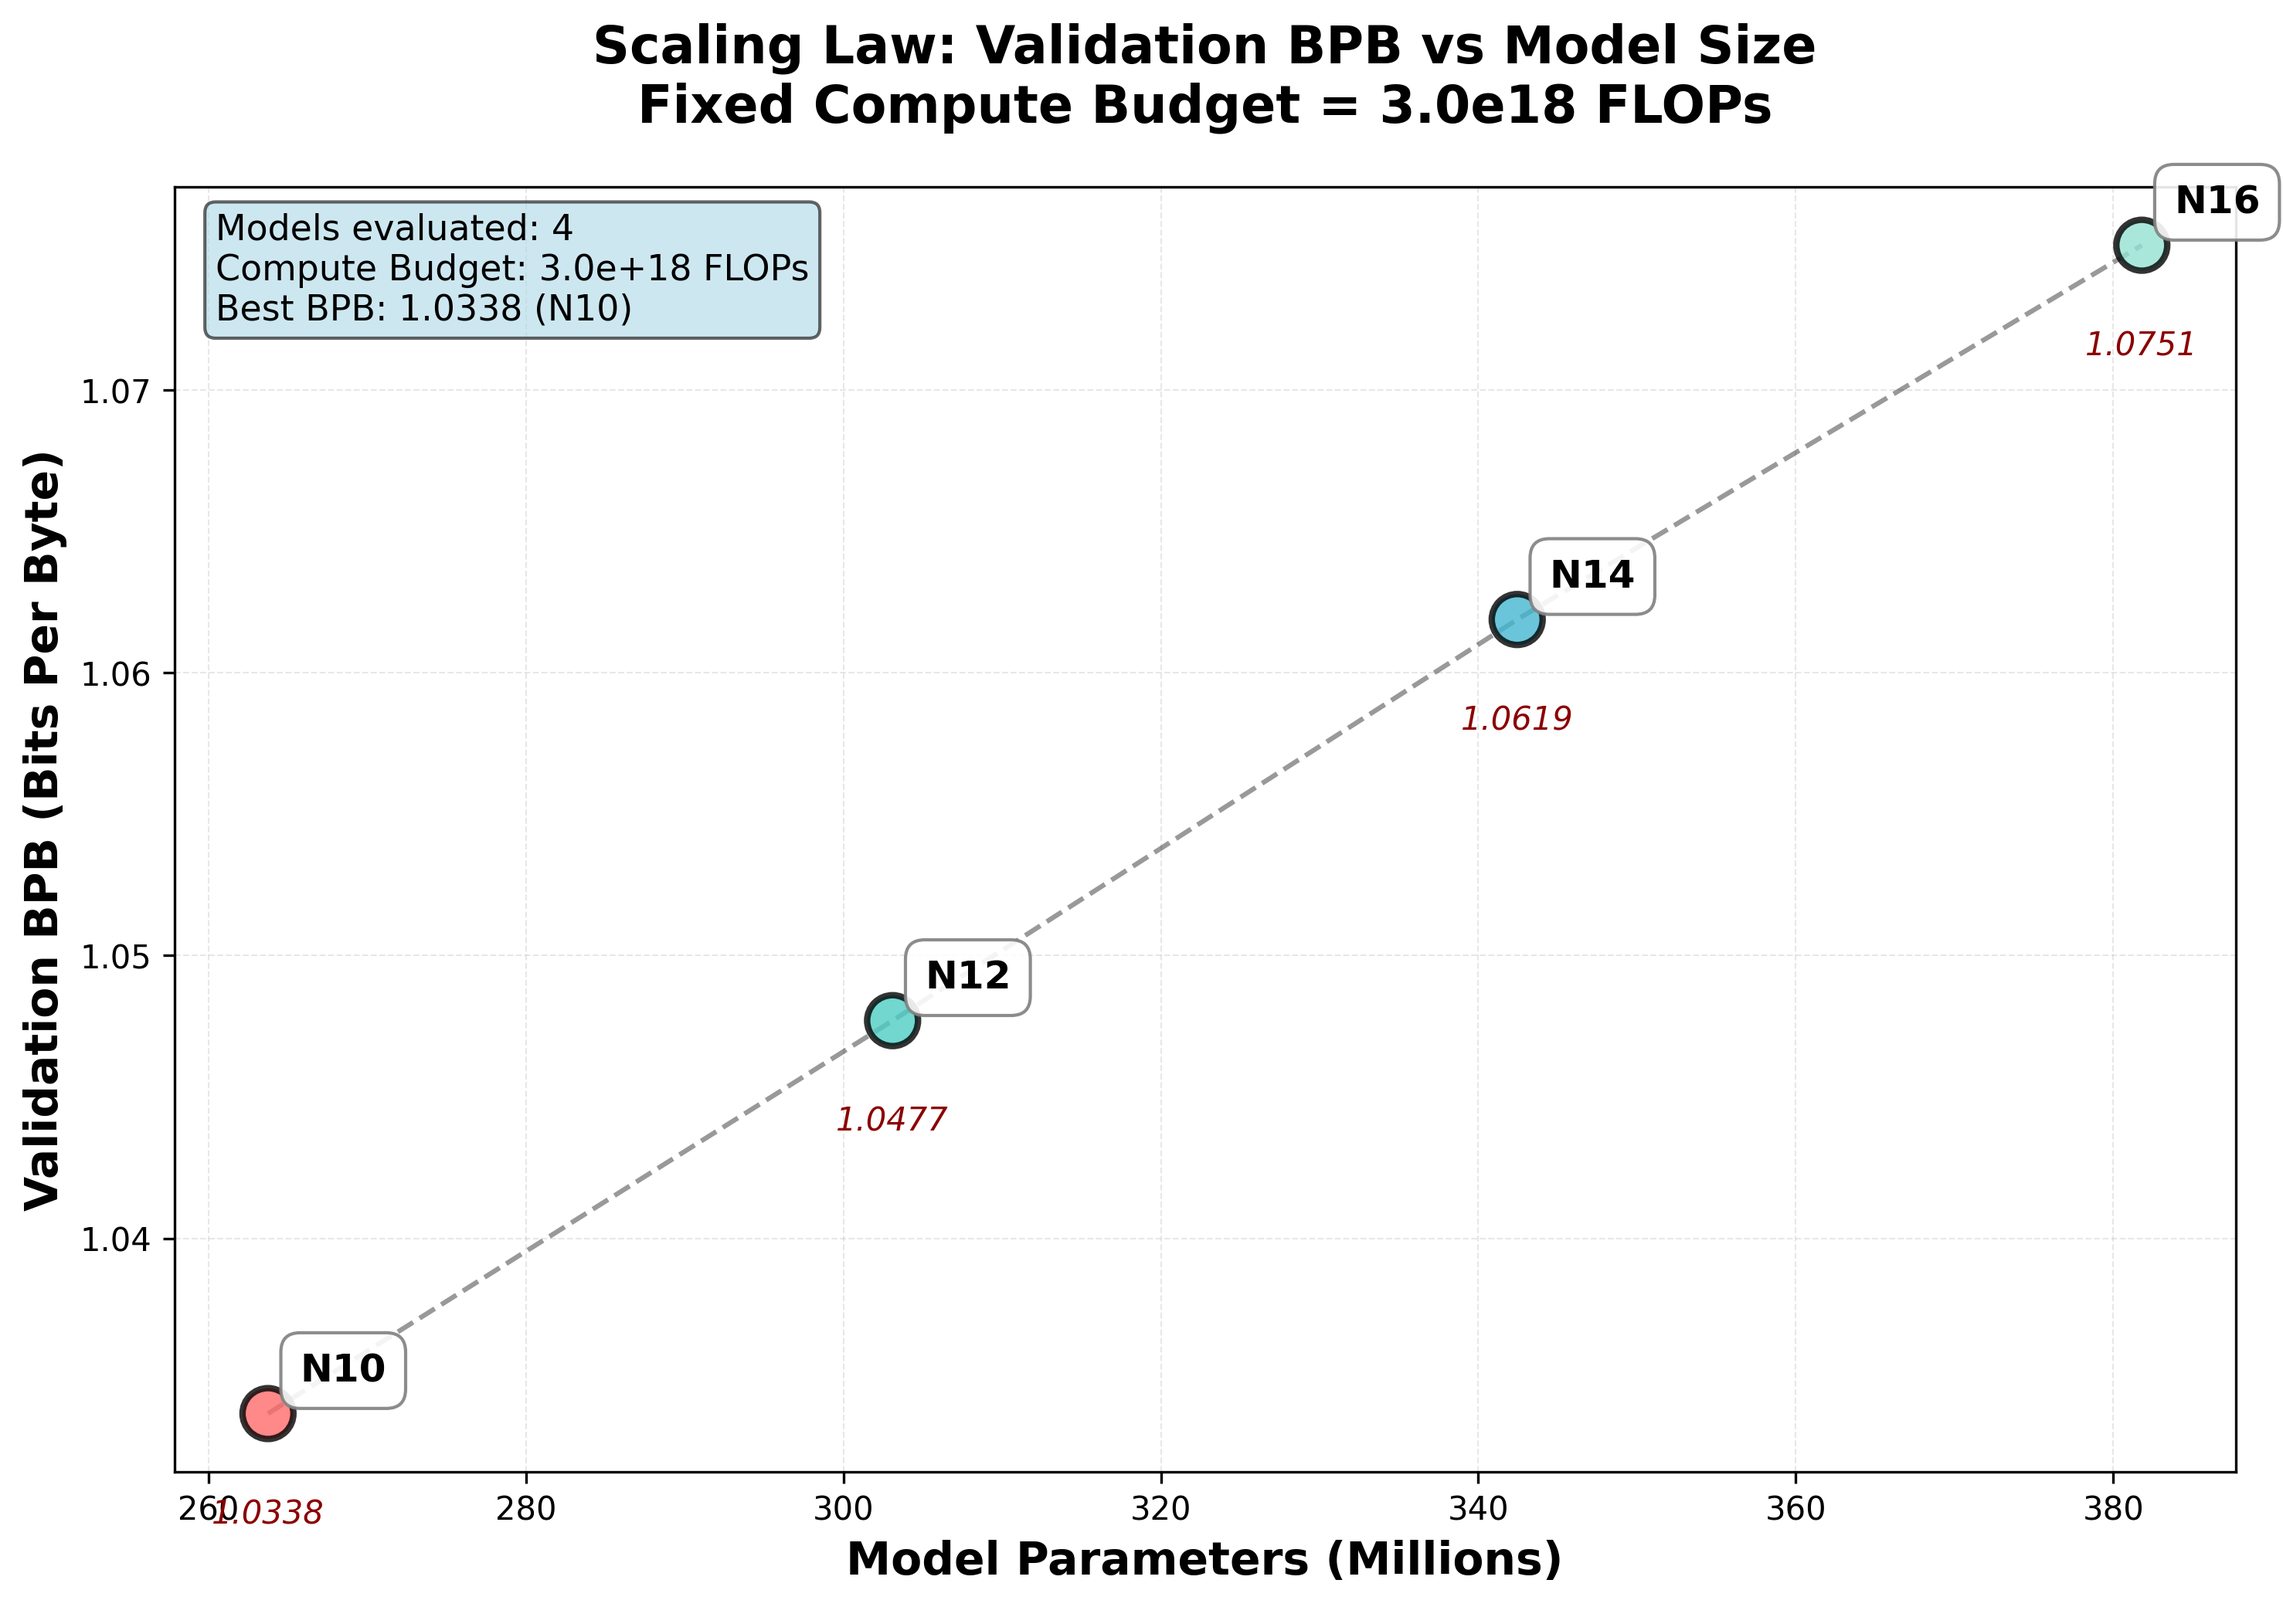
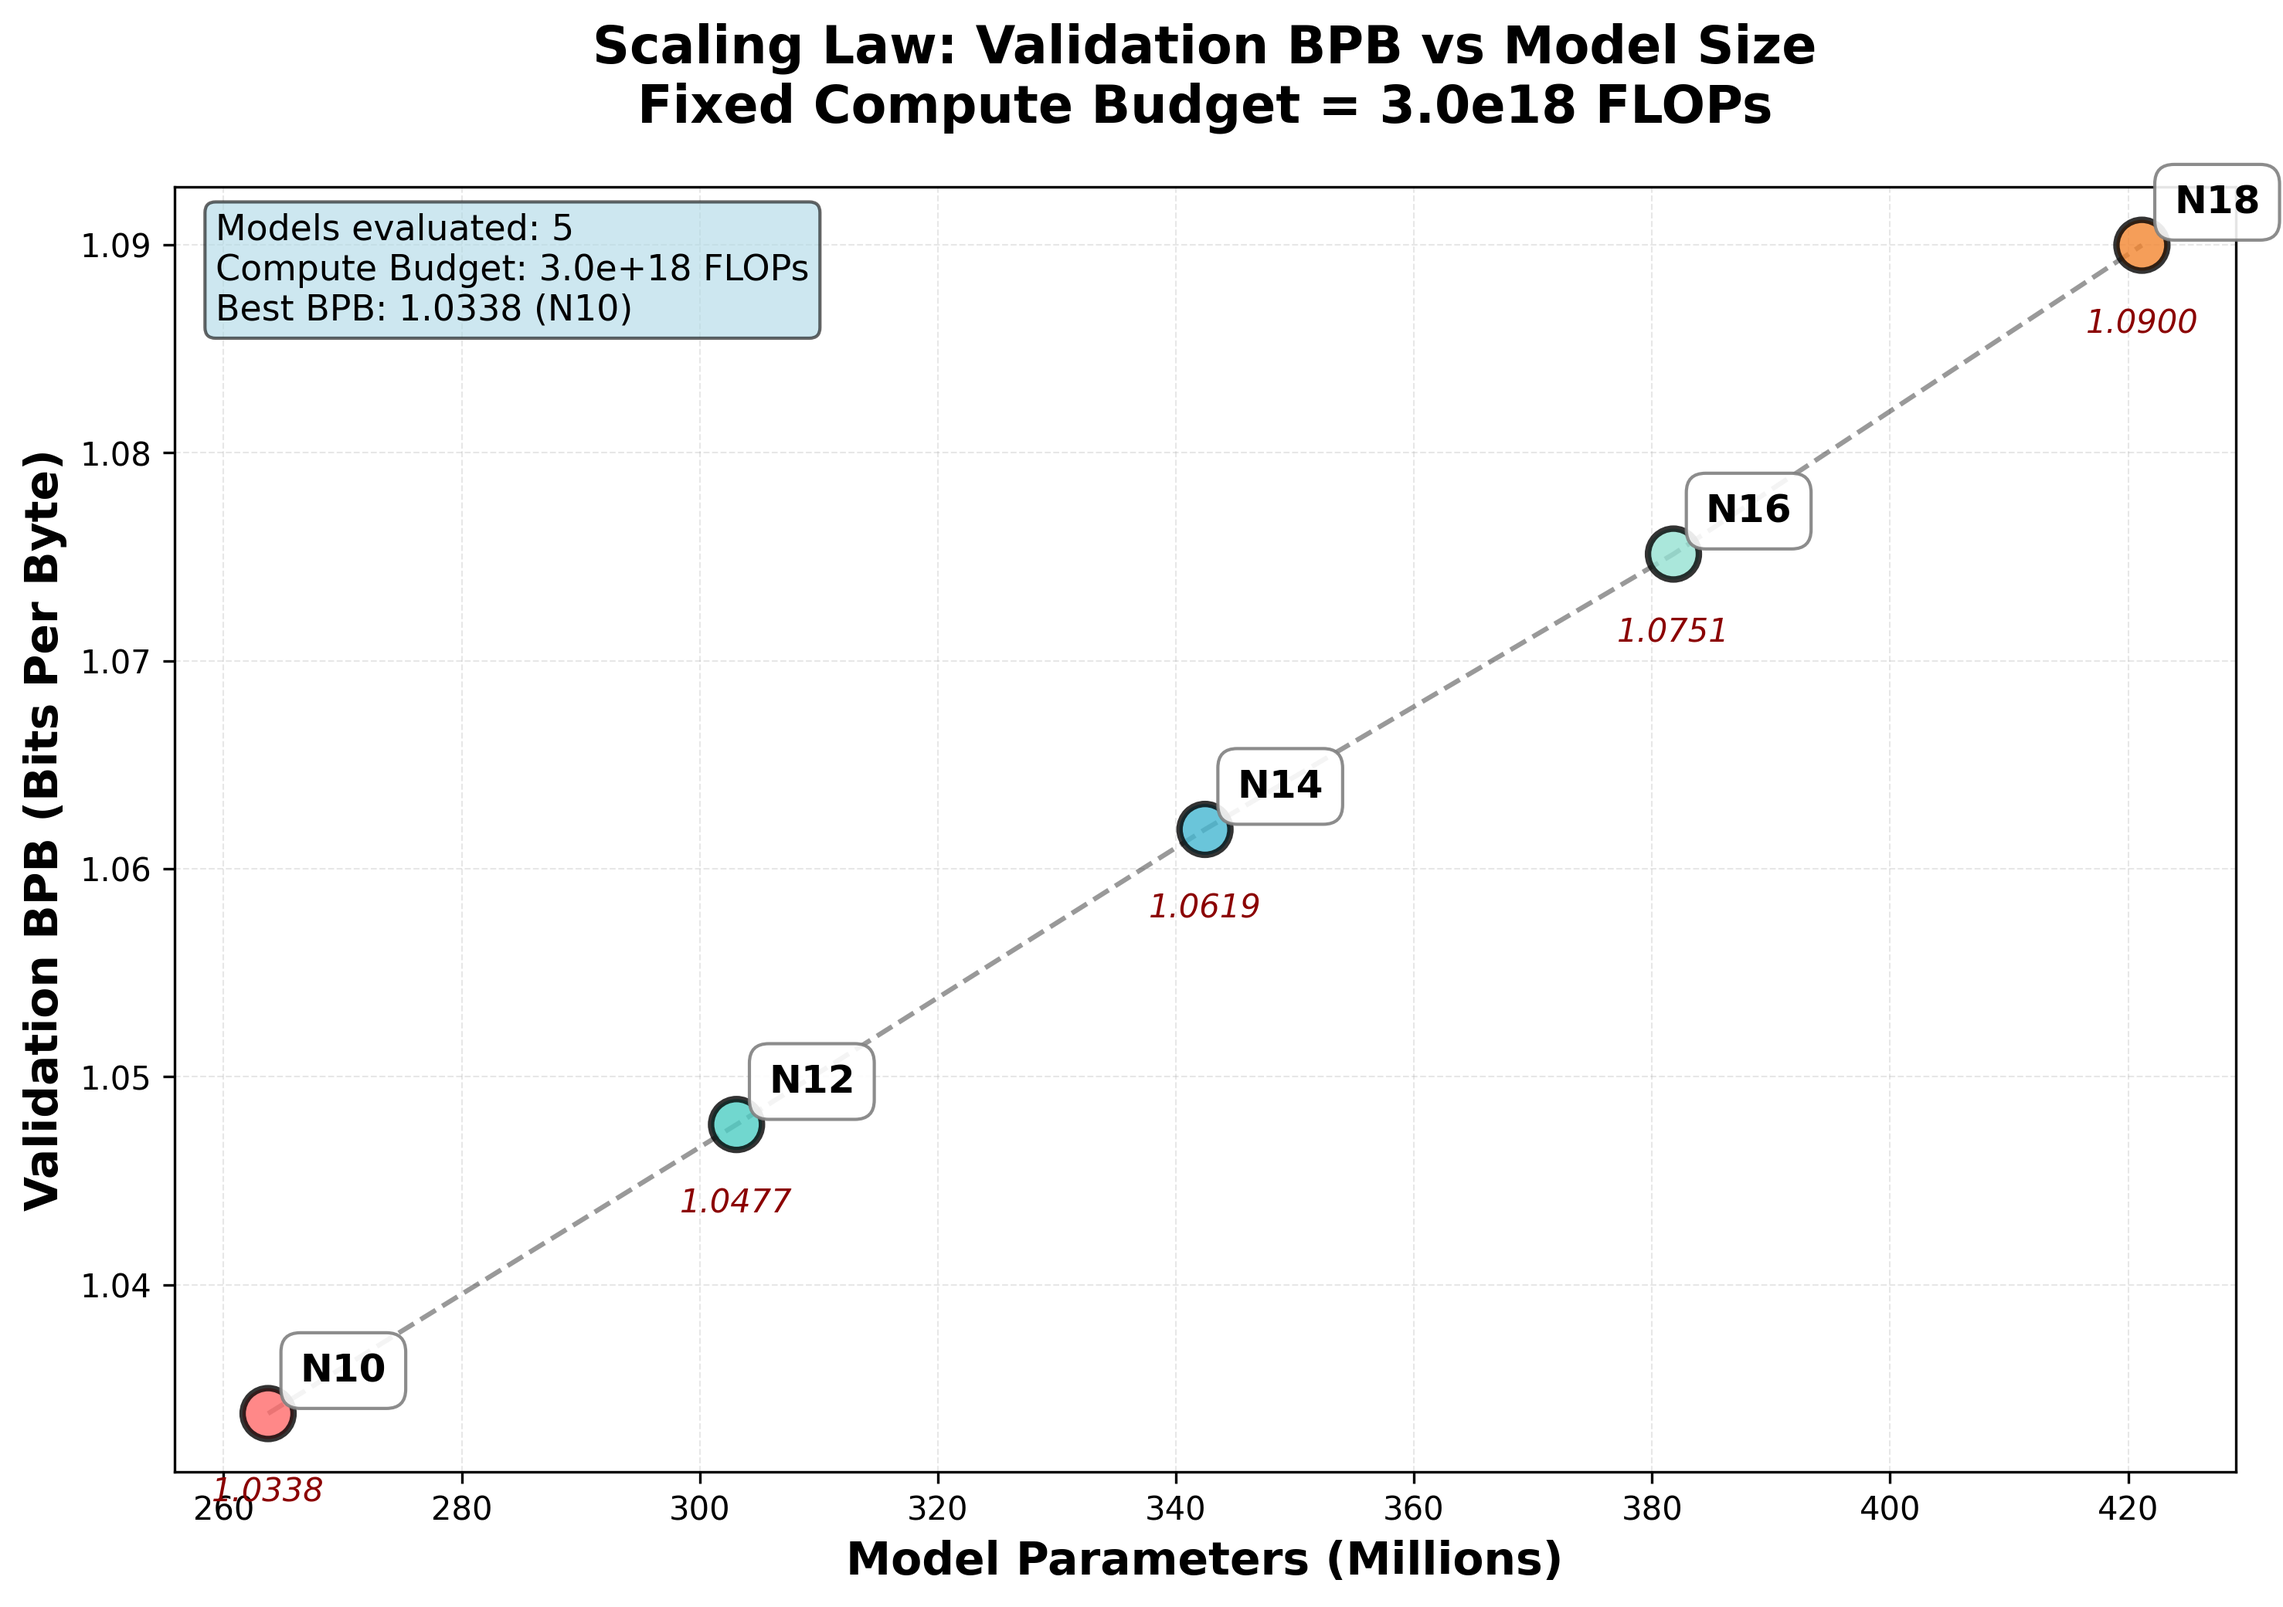
reusing redundant code

diff --git a/src/dataloaders/spellingbee_dataloader.py b/src/dataloaders/spellingbee_dataloader.py
@@ -11,17 +11,14 @@ Example:
     >>> print(f"Loaded {len(examples)} SpellingBee examples")
 """
 
-import os
 import random
 import re
-import urllib.request
 from typing import Dict, List, Optional
+
+from dataloaders.word_utils import download_word_list
 
 # Letters of the alphabet
 LETTERS = "abcdefghijklmnopqrstuvwxyz"
-
-# A list of 370K English words
-WORD_LIST_URL = "https://raw.githubusercontent.com/dwyl/english-words/refs/heads/master/words_alpha.txt"
 
 # Separate train and test with different random seeds
 TEST_RANDOM_SEED_OFFSET = 10_000_000
@@ -89,42 +86,6 @@ USER_MSG_TEMPLATES = [
     "{word}の中に{letter}がいくつ",
     "{word}に{letter}が何回出てくる",
 ]
-
-
-def download_word_list(cache_dir: Optional[str] = None) -> List[str]:
-    """
-    Download and cache the English word list.
-
-    Args:
-        cache_dir: Optional directory to cache the word list
-
-    Returns:
-        List of English words
-    """
-    # Determine cache location - use repo's data/cache directory
-    if cache_dir is None:
-        # Get the repo root (assuming this file is in src/dataloaders/)
-        repo_root = os.path.dirname(
-            os.path.dirname(os.path.dirname(os.path.abspath(__file__)))
-        )
-        cache_dir = os.path.join(repo_root, "data", "cache")
-
-    os.makedirs(cache_dir, exist_ok=True)
-
-    filename = WORD_LIST_URL.split("/")[-1]
-    cache_path = os.path.join(cache_dir, filename)
-
-    # Download if not cached
-    if not os.path.exists(cache_path):
-        print(f"Downloading word list from {WORD_LIST_URL}...")
-        urllib.request.urlretrieve(WORD_LIST_URL, cache_path)
-        print(f"Saved to {cache_path}")
-
-    # Load words
-    with open(cache_path, "r", encoding="utf-8") as f:
-        words = [line.strip() for line in f if line.strip()]
-
-    return words
 
 
 def extract_answer(text: str) -> Optional[str]:

diff --git a/src/dataloaders/simplespelling_dataloader.py b/src/dataloaders/simplespelling_dataloader.py
@@ -11,52 +11,13 @@ Example:
     >>> print(f"Loaded {len(examples)} SimpleSpelling examples")
 """
 
-import os
 import random
-import urllib.request
 from typing import Dict, List, Optional
 
-# A list of 370K English words
-WORD_LIST_URL = "https://raw.githubusercontent.com/dwyl/english-words/refs/heads/master/words_alpha.txt"
+from dataloaders.word_utils import download_word_list
 
 # Separate train and test with different random seeds
 TEST_RANDOM_SEED_OFFSET = 10_000_000
-
-
-def download_word_list(cache_dir: Optional[str] = None) -> List[str]:
-    """
-    Download and cache the English word list.
-
-    Args:
-        cache_dir: Optional directory to cache the word list
-
-    Returns:
-        List of English words
-    """
-    # Determine cache location - use repo's data/cache directory
-    if cache_dir is None:
-        # Get the repo root (assuming this file is in src/dataloaders/)
-        repo_root = os.path.dirname(
-            os.path.dirname(os.path.dirname(os.path.abspath(__file__)))
-        )
-        cache_dir = os.path.join(repo_root, "data", "cache")
-
-    os.makedirs(cache_dir, exist_ok=True)
-
-    filename = WORD_LIST_URL.split("/")[-1]
-    cache_path = os.path.join(cache_dir, filename)
-
-    # Download if not cached
-    if not os.path.exists(cache_path):
-        print(f"Downloading word list from {WORD_LIST_URL}...")
-        urllib.request.urlretrieve(WORD_LIST_URL, cache_path)
-        print(f"Saved to {cache_path}")
-
-    # Load words
-    with open(cache_path, "r", encoding="utf-8") as f:
-        words = [line.strip() for line in f if line.strip()]
-
-    return words
 
 
 class SimpleSpellingDataLoader:

diff --git a/src/dataloaders/word_utils.py b/src/dataloaders/word_utils.py
@@ -1,0 +1,49 @@
+"""
+Word utilities for dataloaders.
+
+This module provides shared utilities for working with word lists across
+different dataloaders.
+"""
+
+import os
+import urllib.request
+from typing import List, Optional
+
+# A list of 370K English words
+WORD_LIST_URL = "https://raw.githubusercontent.com/dwyl/english-words/refs/heads/master/words_alpha.txt"
+
+
+def download_word_list(cache_dir: Optional[str] = None) -> List[str]:
+    """
+    Download and cache the English word list.
+
+    Args:
+        cache_dir: Optional directory to cache the word list
+
+    Returns:
+        List of English words
+    """
+    # Determine cache location - use repo's data/cache directory
+    if cache_dir is None:
+        # Get the repo root (assuming this file is in src/dataloaders/)
+        repo_root = os.path.dirname(
+            os.path.dirname(os.path.dirname(os.path.abspath(__file__)))
+        )
+        cache_dir = os.path.join(repo_root, "data", "cache")
+
+    os.makedirs(cache_dir, exist_ok=True)
+
+    filename = WORD_LIST_URL.split("/")[-1]
+    cache_path = os.path.join(cache_dir, filename)
+
+    # Download if not cached
+    if not os.path.exists(cache_path):
+        print(f"Downloading word list from {WORD_LIST_URL}...")
+        urllib.request.urlretrieve(WORD_LIST_URL, cache_path)
+        print(f"Saved to {cache_path}")
+
+    # Load words
+    with open(cache_path, "r", encoding="utf-8") as f:
+        words = [line.strip() for line in f if line.strip()]
+
+    return words

diff --git a/scripts/plot_training_time.py b/scripts/plot_training_time.py
@@ -62,6 +62,7 @@ log_files = {
     "n12": "/mnt/localssd/NanoGPT/logs/scaling_law_n12_20260126_131156.log",
     "n14": "/mnt/localssd/NanoGPT/logs/scaling_law_n14_20260126_131156.log",
     "n16": "/mnt/localssd/NanoGPT/logs/scaling_law_n16_20260126_131156.log",
+    "n18": "/mnt/localssd/NanoGPT/logs/scaling_law_n18_20260126_131156.log",
 }
 
 # Model parameters (from previous analysis)
@@ -70,6 +71,7 @@ model_params = {
     "n12": 303_093_760,
     "n14": 342_448_640,
     "n16": 381_803_520,
+    "n18": 421_158_400,
 }
 
 print("=" * 70)
@@ -110,8 +112,8 @@ params_M = params / 1e6
 fig, ax1 = plt.subplots(figsize=(12, 7))
 
 # Plot the data points for training time
-colors = ["#FF6B6B", "#4ECDC4", "#45B7D1", "#95E1D3"]
-model_colors = {k: colors[i] for i, k in enumerate(["n10", "n12", "n14", "n16"])}
+colors = ["#FF6B6B", "#4ECDC4", "#45B7D1", "#95E1D3", "#F38630"]
+model_colors = {k: colors[i] for i, k in enumerate(["n10", "n12", "n14", "n16", "n18"])}
 point_colors = [model_colors[k] for k in model_names]
 
 scatter1 = ax1.scatter(

diff --git a/src/gpt_2/config.py b/src/gpt_2/config.py
@@ -16,7 +16,7 @@ class GPTConfig:
     block_size: int = 2048  # Maximum sequence length (context window)
     vocab_size: int = 50266  # GPT-2 vocab (50257) + special tokens (9)
     # NOTE: Nanochat uses 65,536 with a custom tokenizer. We use GPT-2's tokenizer.
-    n_layer: int = 18  # Number of transformer blocks in the model
+    n_layer: int = 6  # Number of transformer blocks in the model
     n_head: int = 10  # Number of attention heads per transformer block
     n_kv_head: int = 10  # Number of KV heads for GQA (MHA in this config)
     n_embed: int = (
@@ -30,7 +30,7 @@ class GPTConfig:
         1  # Number of training epochs (nanochat uses iterations, not epochs)
     )
     batch_size: int = (
-        16  # Batch size per GPU (32 sequences * 2048 tokens = 65,536 tokens/GPU)
+        32  # Batch size per GPU (32 sequences * 2048 tokens = 65,536 tokens/GPU)
     )
     total_batch_size: int = 524288  # Total tokens per gradient update (2^19)
     weight_decay: float = 0.10  # L2 regularization weight decay (nanochat default)

diff --git a/scripts/plot_isoflop_curve.py b/scripts/plot_isoflop_curve.py
@@ -41,6 +41,13 @@ data = {
         "flops_per_token": 2.392e9,
         "final_val_bpb": 1.07513,  # Step 2391
     },
+    "n18": {
+        "params": 421_158_400,
+        "tokens": 1_114_636_288,
+        "flops": 3.0e18,
+        "flops_per_token": 2.691e9,
+        "final_val_bpb": 1.08998,  # Step 2125
+    },
 }
 
 # Extract data for plotting
@@ -62,7 +69,7 @@ scatter = plt.scatter(
     params_M,
     tokens_B,
     s=200,
-    c=["#FF6B6B", "#4ECDC4", "#45B7D1", "#95E1D3"],
+    c=["#FF6B6B", "#4ECDC4", "#45B7D1", "#95E1D3", "#F38630"],
     alpha=0.8,
     edgecolors="black",
     linewidth=2,
@@ -159,7 +166,7 @@ val_params_M = val_params / 1e6
 fig, ax = plt.subplots(figsize=(10, 7))
 
 # Plot the data points
-colors = ["#FF6B6B", "#4ECDC4", "#45B7D1", "#95E1D3"]
+colors = ["#FF6B6B", "#4ECDC4", "#45B7D1", "#95E1D3", "#F38630"]
 model_colors = {k: colors[i] for i, k in enumerate(data.keys())}
 scatter_colors = [model_colors[k] for k in val_model_names]
 

diff --git a/src/gpt_2/gpt2_model.py b/src/gpt_2/gpt2_model.py
@@ -120,6 +120,12 @@ class GPT(nn.Module):
             + self.transformer.ln_f.bias.numel()
         )
 
+        # TODO: Enable it once done running Scaling Laws
+        # if getattr(self.config, "tie_embeddings", True):
+        #     # remove wte weight from nparams_exclude
+        #     # This is removed because it weights are tied. LMhead FLOP computation are ignored.
+        #     nparams_exclude -= self.transformer.wte.weight.numel()
+
         # Add layer norm params from each transformer block
         for block in self.transformer.h:
             nparams_exclude += block.ln_1.weight.numel() + block.ln_1.bias.numel()
